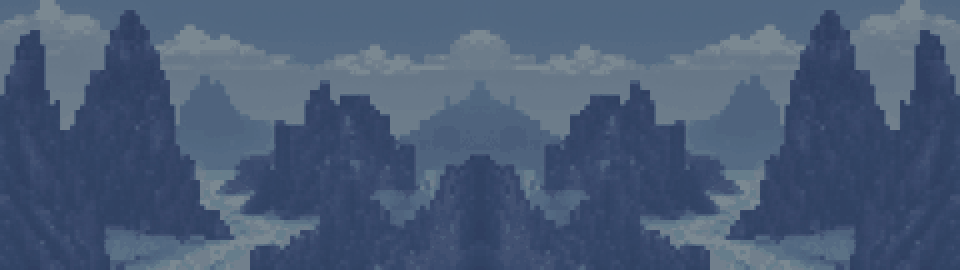
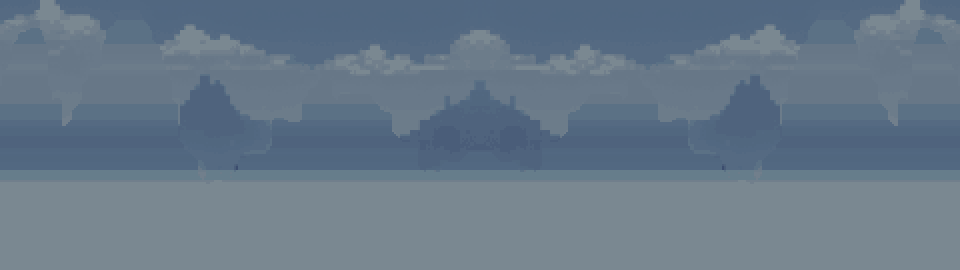
Depth-split painted backdrops into parallax layers; gloomier Ashfall
Outdoor backdrops are cut into sky, far land and near land using a depth
map from Depth Anything V2 Small (tools/depth_maps.py), and each nearer
layer scrolls faster. Covered parts are filled with flat bands so nothing
ghosts when the layers drift apart. Caverns and catacombs stay one layer.
Ashfall is regenerated from seed 2413; the old one looked too cheerful.

diff --git a/tools/process_backgrounds.py b/tools/process_backgrounds.py
@@ -6,58 +6,150 @@ small palette, pushed back a little (dimmer, less saturated) so the playfield
 stays readable, and mirrored horizontally so it tiles seamlessly while the
 parallax layer scrolls.
 
+Backdrops with depth cuts are also split into parallax layers using the depth
+map written next to the render by tools/depth_maps.py: layer 0 is the whole
+scene (sky), layer k keeps only what is nearer than cuts[k-1]. Wherever a
+nearer layer covers a farther one, the farther one is filled in by smearing
+its own neighbouring pixels sideways, so nothing is duplicated when the
+layers drift apart.
+
 Usage:
     python tools/process_backgrounds.py <raw_dir>
     python tools/process_backgrounds.py <raw_dir> --only greenwood_valley
 
-Writes assets/backgrounds/<name>.png (960x270).
+Writes assets/backgrounds/<name>.png (960x270) and, for layered backdrops,
+<name>_1.png, <name>_2.png ... (960x270, transparent where farther away).
 """
 from __future__ import annotations
 
 import argparse
 from pathlib import Path
 
+import numpy as np
 from PIL import Image, ImageEnhance
 
 ROOT    = Path(__file__).resolve().parent.parent
 OUT_DIR = ROOT / "assets" / "backgrounds"
 VIEW_W, VIEW_H = 480, 270
+PIXEL = 2   # backdrop pixels are 2x2 world pixels (chunkier reads as far away)
 
-# backdrop name -> raw render file (prompt seed recorded in the filename)
-SOURCES = {
-    "greenwood_valley":    "greenwood_2200.png",
-    "greenwood_mountains": "greenwood_2201.png",
-    "greenwood_dusk":      "greenwood_2202.png",
-    "glass_caverns":       "glass_caverns_2300.png",
-    "ashfall":             "ashfall_2311.png",
-    "cinderwood":          "cinderwood_2320.png",
-    "ash_marshes":         "ash_marshes_2331.png",
-    "throne":              "throne_2341.png",
-    "pale_tower":          "pale_tower_2351.png",
-    "skybound":            "skybound_2360.png",
-    "bridge":              "bridge_2370.png",
-    "catacombs":           "catacombs_2380.png",
-    "emberfall":           "emberfall_2390.png",
+# backdrop name -> (raw render file with its seed in the name, depth cuts).
+# Each cut is a depth threshold (0 = farthest, 1 = nearest) that starts a new,
+# faster layer. No cuts = one flat layer (enclosed scenes have no clear sky).
+SOURCES: dict[str, tuple[str, tuple[float, ...]]] = {
+    "greenwood_valley":    ("greenwood_2200.png",     (0.15, 0.6)),
+    "greenwood_mountains": ("greenwood_2201.png",     (0.15, 0.6)),
+    "greenwood_dusk":      ("greenwood_2202.png",     (0.15, 0.6)),
+    "glass_caverns":       ("glass_caverns_2300.png", ()),
+    "ashfall":             ("ashfall_2413.png",       (0.15, 0.6)),
+    "cinderwood":          ("cinderwood_2320.png",    (0.15, 0.6)),
+    "ash_marshes":         ("ash_marshes_2331.png",   (0.15, 0.6)),
+    "throne":              ("throne_2341.png",        (0.15, 0.6)),
+    "pale_tower":          ("pale_tower_2351.png",    (0.15, 0.6)),
+    "skybound":            ("skybound_2360.png",      (0.15, 0.6)),
+    "bridge":              ("bridge_2370.png",        (0.15, 0.6)),
+    "catacombs":           ("catacombs_2380.png",     ()),
+    "emberfall":           ("emberfall_2390.png",     (0.15, 0.6)),
 }
 
 
-def process(src: Path, colors: int = 32, dim: float = 0.62, saturation: float = 0.6,
-            haze: float = 0.3, pixel: int = 2) -> Image.Image:
-    img = Image.open(src).convert("RGB")
-    # Crop to 16:9 around the vertical centre-bottom (horizon detail sits low).
+def _crop_view(img: Image.Image, resample: int) -> Image.Image:
+    """Crop to 16:9 at the bottom (horizon detail sits low) and scale to the view."""
     w, h   = img.size
     crop_h = round(w * VIEW_H / VIEW_W)
     top    = max(0, h - crop_h)
-    img    = img.crop((0, top, w, top + crop_h)).resize((VIEW_W, VIEW_H), Image.LANCZOS)
-    img    = ImageEnhance.Color(img).enhance(saturation)
-    img    = ImageEnhance.Brightness(img).enhance(dim)
+    return img.crop((0, top, w, top + crop_h)).resize((VIEW_W, VIEW_H), resample)
+
+
+def process(src: Path, colors: int = 32, dim: float = 0.62, saturation: float = 0.6,
+            haze: float = 0.3) -> Image.Image:
+    """The flat 480x270 backdrop, already reduced to PIXEL-sized blocks and the palette."""
+    img = _crop_view(Image.open(src).convert("RGB"), Image.LANCZOS)
+    img = ImageEnhance.Color(img).enhance(saturation)
+    img = ImageEnhance.Brightness(img).enhance(dim)
     # Atmospheric haze: blend toward the average sky colour (top strip).
-    sky    = img.crop((0, 0, VIEW_W, VIEW_H // 6)).resize((1, 1), Image.BOX)
-    img    = Image.blend(img, Image.new("RGB", img.size, sky.getpixel((0, 0))), haze)
-    # Chunkier pixels than the playfield read as "far away".
-    img    = img.resize((VIEW_W // pixel, VIEW_H // pixel), Image.BOX).resize((VIEW_W, VIEW_H), Image.NEAREST)
-    img    = img.quantize(colors, method=Image.Quantize.MEDIANCUT, dither=Image.Dither.NONE).convert("RGB")
-    tiled  = Image.new("RGB", (VIEW_W * 2, VIEW_H))
+    sky = img.crop((0, 0, VIEW_W, VIEW_H // 6)).resize((1, 1), Image.BOX)
+    img = Image.blend(img, Image.new("RGB", img.size, sky.getpixel((0, 0))), haze)
+    img = img.resize((VIEW_W // PIXEL, VIEW_H // PIXEL), Image.BOX).resize((VIEW_W, VIEW_H), Image.NEAREST)
+    return img.quantize(colors, method=Image.Quantize.MEDIANCUT, dither=Image.Dither.NONE).convert("RGB")
+
+
+def _clean(mask: np.ndarray) -> np.ndarray:
+    """Drop isolated specks and pinholes (3x3 majority vote)."""
+    p = np.pad(mask, 1, mode="edge").astype(np.int8)
+    votes = sum(p[1 + dy:p.shape[0] - 1 + dy, 1 + dx:p.shape[1] - 1 + dx]
+                for dy in (-1, 0, 1) for dx in (-1, 0, 1))
+    return votes >= 5
+
+
+def _grow(mask: np.ndarray, diagonal: bool = False) -> np.ndarray:
+    """Dilate a mask by one pixel (4-neighbourhood, or 8 with diagonal=True)."""
+    out = mask.copy()
+    out[1:]     |= mask[:-1]
+    out[:-1]    |= mask[1:]
+    out[:, 1:]  |= mask[:, :-1]
+    out[:, :-1] |= mask[:, 1:]
+    if diagonal:
+        out[1:, 1:]   |= mask[:-1, :-1]
+        out[1:, :-1]  |= mask[:-1, 1:]
+        out[:-1, 1:]  |= mask[1:, :-1]
+        out[:-1, :-1] |= mask[1:, 1:]
+    return out
+
+
+def _fill_hidden(rgb: np.ndarray, own: np.ndarray, hidden: np.ndarray) -> np.ndarray:
+    """Paint the hidden pixels of a layer in flat horizontal bands: each row gets the
+    average of its own visible pixels (rows with none repeat the band above),
+    snapped to the backdrop's palette. Reads as distant haze when uncovered,
+    where copying neighbours would smear streaks and ghost outlines."""
+    out = rgb.copy()
+    palette = np.unique(rgb.reshape(-1, 3), axis=0).astype(np.int32)
+    band = rgb[0].mean(axis=0)
+    for y in range(own.shape[0]):
+        if own[y].any():
+            band = rgb[y, own[y]].mean(axis=0)
+        if hidden[y].any():
+            out[y, hidden[y]] = palette[np.argmin(((palette - band) ** 2).sum(axis=1))]
+    return out
+
+
+def split_layers(img: Image.Image, depth: Image.Image, cuts: tuple[float, ...]) -> list[Image.Image]:
+    """Cut the flat backdrop into len(cuts)+1 view-sized layers, far to near."""
+    gw, gh = VIEW_W // PIXEL, VIEW_H // PIXEL
+    rgb = np.asarray(img.resize((gw, gh), Image.NEAREST)).copy()
+    d   = np.asarray(_crop_view(depth.convert("L"), Image.BILINEAR).resize((gw, gh), Image.BOX)) / 255.0
+    # in_layer[k]: pixel belongs to layer k or nearer. Grown by one pixel so the
+    # dark outline at a silhouette's edge travels with it instead of staying
+    # behind on the farther layer.
+    in_layer = [np.ones((gh, gw), bool)] + [_grow(_clean(d >= c), diagonal=True) for c in cuts]
+    for k in range(len(in_layer) - 1, 0, -1):
+        in_layer[k][-1] = True                           # every layer reaches the bottom edge
+        in_layer[k - 1] |= in_layer[k]
+    # The blurry depth map leaves a one-pixel sliver of a nearer silhouette's
+    # edge on the layer behind it; hand such slivers to the nearer layer.
+    for k in range(len(in_layer) - 1, 1, -1):
+        own = in_layer[k - 1] & ~in_layer[k]
+        in_layer[k] |= own & _grow(~own) & _grow(in_layer[k])
+    layers = []
+    for k in range(len(in_layer)):
+        nearer = in_layer[k + 1] if k + 1 < len(in_layer) else np.zeros_like(in_layer[k])
+        own    = in_layer[k] & ~nearer
+        filled = _fill_hidden(rgb, own, nearer)
+        # A land layer only exists below its own top edge; above that (e.g. a
+        # tower rising out of the near layer) it stays see-through, so the
+        # sky shows there once the layers drift apart.
+        # Thin slivers of own pixels hugging a nearer silhouette don't count.
+        body   = ~_grow(~own)
+        shape  = own | (nearer & np.logical_or.accumulate(body, axis=0)) if k else in_layer[k]
+        alpha  = np.where(shape, 255, 0).astype(np.uint8)
+        layer  = Image.fromarray(np.dstack([filled, alpha]), "RGBA")
+        layers.append(layer.resize((VIEW_W, VIEW_H), Image.NEAREST))
+    return layers
+
+
+def tile(img: Image.Image) -> Image.Image:
+    """Mirror horizontally so the strip wraps seamlessly."""
+    tiled = Image.new(img.mode, (VIEW_W * 2, VIEW_H))
     tiled.paste(img, (0, 0))
     tiled.paste(img.transpose(Image.Transpose.FLIP_LEFT_RIGHT), (VIEW_W, 0))
     return tiled
@@ -69,15 +161,28 @@ def main() -> None:
     ap.add_argument("--only", help="process just this backdrop name")
     args = ap.parse_args()
     OUT_DIR.mkdir(parents=True, exist_ok=True)
-    for name, fname in SOURCES.items():
+    for name, (fname, cuts) in SOURCES.items():
         if args.only and name != args.only:
             continue
         src = args.raw_dir / fname
         if not src.exists():
             print(f"skip {name}: {src} missing")
             continue
-        process(src).save(OUT_DIR / f"{name}.png", optimize=True)
-        print(f"wrote {name}.png")
+        flat = process(src)
+        for old in OUT_DIR.glob(f"{name}_[0-9].png"):
+            old.unlink()
+        depth = src.with_name(f"{src.stem}_depth.png")
+        if not cuts:
+            tile(flat).save(OUT_DIR / f"{name}.png", optimize=True)
+            print(f"wrote {name}.png")
+            continue
+        if not depth.exists():
+            raise SystemExit(f"{name}: {depth.name} missing, run tools/depth_maps.py first")
+        layers = split_layers(flat, Image.open(depth), cuts)
+        tile(layers[0].convert("RGB")).save(OUT_DIR / f"{name}.png", optimize=True)
+        for k, layer in enumerate(layers[1:], start=1):
+            tile(layer).save(OUT_DIR / f"{name}_{k}.png", optimize=True)
+        print(f"wrote {name}.png + {len(layers) - 1} layer(s)")
 
 
 if __name__ == "__main__":

diff --git a/tools/depth_maps.py b/tools/depth_maps.py
@@ -1,0 +1,67 @@
+"""Estimate a depth map for each raw ComfyUI background render.
+
+process_backgrounds.py uses these maps to cut a painted backdrop into parallax
+layers (sky, far land, near land). The model is Depth Anything V2 Small
+(ONNX export from onnx-community/depth-anything-v2-small, Apache-2.0). It needs
+onnxruntime, which the game itself does not depend on, so run this with the
+ComfyUI embedded Python:
+
+    <ComfyUI>/python_embeded/python.exe -I tools/depth_maps.py <model.onnx> <raw_dir>
+
+Writes <raw_dir>/<render>_depth.png next to each render (8-bit, white = near).
+Only renders listed in process_backgrounds.SOURCES are processed.
+"""
+from __future__ import annotations
+
+import argparse
+import ast
+from pathlib import Path
+
+import numpy as np
+import onnxruntime as ort
+from PIL import Image
+
+_MEAN = np.array([0.485, 0.456, 0.406], np.float32)
+_STD  = np.array([0.229, 0.224, 0.225], np.float32)
+
+
+def _source_files() -> list[str]:
+    """Raw render filenames from process_backgrounds.SOURCES, read without importing it
+    (this script runs outside the project's environment)."""
+    tree = ast.parse((Path(__file__).parent / "process_backgrounds.py").read_text(encoding="utf-8"))
+    for node in tree.body:
+        target = node.target if isinstance(node, ast.AnnAssign) else getattr(node, "targets", [None])[0]
+        if getattr(target, "id", "") == "SOURCES":
+            return sorted({v[0] if isinstance(v, tuple) else v
+                           for v in ast.literal_eval(node.value).values()})
+    raise RuntimeError("SOURCES not found in process_backgrounds.py")
+
+
+def estimate(sess: ort.InferenceSession, img: Image.Image) -> Image.Image:
+    w, h = img.size
+    # The model needs sides that are multiples of its 14 px patch size.
+    x = np.asarray(img.resize((14 * round(w / 14), 14 * round(h / 14)), Image.BICUBIC), np.float32) / 255
+    x = ((x - _MEAN) / _STD).transpose(2, 0, 1)[None].astype(np.float32)
+    d = sess.run(None, {sess.get_inputs()[0].name: x})[0][0]
+    d = (d - d.min()) / (d.max() - d.min() + 1e-6)
+    return Image.fromarray((d * 255).astype(np.uint8)).resize((w, h), Image.BILINEAR)
+
+
+def main() -> None:
+    ap = argparse.ArgumentParser()
+    ap.add_argument("model", type=Path)
+    ap.add_argument("raw_dir", type=Path)
+    args = ap.parse_args()
+    sess = ort.InferenceSession(str(args.model), providers=["CPUExecutionProvider"])
+    for fname in _source_files():
+        src = args.raw_dir / fname
+        if not src.exists():
+            print(f"skip {fname}: missing")
+            continue
+        out = src.with_name(f"{src.stem}_depth.png")
+        estimate(sess, Image.open(src).convert("RGB")).save(out)
+        print(f"wrote {out.name}")
+
+
+if __name__ == "__main__":
+    main()

diff --git a/saruman/world/parallax.py b/saruman/world/parallax.py
@@ -502,7 +502,11 @@ _BIOME_LAYERS: dict[str, list[tuple]] = {
 
 # Painted backgrounds (generated with ComfyUI, see tools/process_backgrounds.py)
 # replace the procedural silhouettes, which look crude in front of them.
-_PAINTED_FACTOR = 0.05
+# Outdoor backdrops are cut by depth into <name>.png (sky) plus transparent
+# <name>_1.png, <name>_2.png ... (farther land to nearer land); each nearer
+# layer scrolls faster.
+_PAINTED_FACTOR  = 0.05
+_PAINTED_FACTORS = (0.03, 0.08, 0.16)
 
 _PAINTED: dict[str, str] = {
     "level_01_greenshire_hills":    "greenwood_valley",
@@ -521,15 +525,24 @@ _PAINTED: dict[str, str] = {
 }
 
 
-def _load_painted(level_name: str) -> pygame.Surface | None:
+def _load_painted(level_name: str) -> list[pygame.Surface] | None:
+    """The painted backdrop's layers, far to near, or None if there is none."""
     name = _PAINTED.get(level_name)
     if not name:
         return None
     path = asset_path("backgrounds", f"{name}.png")
     if not path.exists():
         return None
+    has_display = pygame.display.get_surface() is not None
     surf = pygame.image.load(str(path))
-    return surf.convert() if pygame.display.get_surface() else surf
+    layers = [surf.convert() if has_display else surf]
+    while len(layers) < len(_PAINTED_FACTORS):
+        path = asset_path("backgrounds", f"{name}_{len(layers)}.png")
+        if not path.exists():
+            break
+        surf = pygame.image.load(str(path))
+        layers.append(surf.convert_alpha() if has_display else surf)
+    return layers
 
 
 def make_parallax_layers(level_name: str) -> list[ParallaxLayer]:
@@ -537,4 +550,6 @@ def make_parallax_layers(level_name: str) -> list[ParallaxLayer]:
     painted = _load_painted(level_name)
     if painted is None:
         return [ParallaxLayer(fn(), factor) for fn, factor in entries]
-    return [ParallaxLayer(painted, _PAINTED_FACTOR)]
+    if len(painted) == 1:
+        return [ParallaxLayer(painted[0], _PAINTED_FACTOR)]
+    return [ParallaxLayer(surf, factor) for surf, factor in zip(painted, _PAINTED_FACTORS)]

diff --git a/tests/test_parallax.py b/tests/test_parallax.py
@@ -43,17 +43,41 @@ def _pygame():
 @pytest.mark.parametrize("level", ALL_LEVELS)
 def test_known_level_returns_layers(level):
     layers = make_parallax_layers(level)
-    assert 1 <= len(layers) <= 2
+    assert 1 <= len(layers) <= 3
 
 
 @pytest.mark.parametrize("level", ALL_LEVELS)
-def test_painted_background_is_single_seamless_layer(level):
+def test_painted_layers_are_seamless_full_view_strips(level):
     from saruman.config import INTERNAL_H, INTERNAL_W
     from saruman.world.parallax import _load_painted
     if _load_painted(level) is None:
         pytest.skip("no painted backdrop for this level yet")
-    (layer,) = make_parallax_layers(level)
-    assert layer._surf.get_size() == (INTERNAL_W * 2, INTERNAL_H)
+    for layer in make_parallax_layers(level):
+        assert layer._surf.get_size() == (INTERNAL_W * 2, INTERNAL_H)
+
+
+@pytest.mark.parametrize("level", ALL_LEVELS)
+def test_painted_layers_scroll_faster_the_nearer_they_are(level):
+    layers = make_parallax_layers(level)
+    factors = [l._factor for l in layers]
+    assert factors == sorted(factors) and len(set(factors)) == len(factors)
+
+
+@pytest.mark.parametrize("level", ["level_01_greenshire_hills", "level_11_ashfall_wastes"])
+def test_outdoor_backdrop_is_cut_into_depth_layers(level):
+    layers = make_parallax_layers(level)
+    assert len(layers) == 3
+    # The sky covers the whole view; the land layers are see-through at the top.
+    assert layers[0]._surf.get_at((0, 0)).a == 255
+    for layer in layers[1:]:
+        assert layer._surf.get_at((0, 0)).a == 0
+        assert layer._surf.get_at((0, layer._surf.get_height() - 1)).a == 255
+
+
+def test_enclosed_backdrop_stays_single_layer():
+    from saruman.world.parallax import _PAINTED_FACTOR
+    (layer,) = make_parallax_layers("level_03_glass_caverns")
+    assert layer._factor == _PAINTED_FACTOR
 
 
 def test_painted_backdrop_falls_back_to_silhouettes(monkeypatch):
